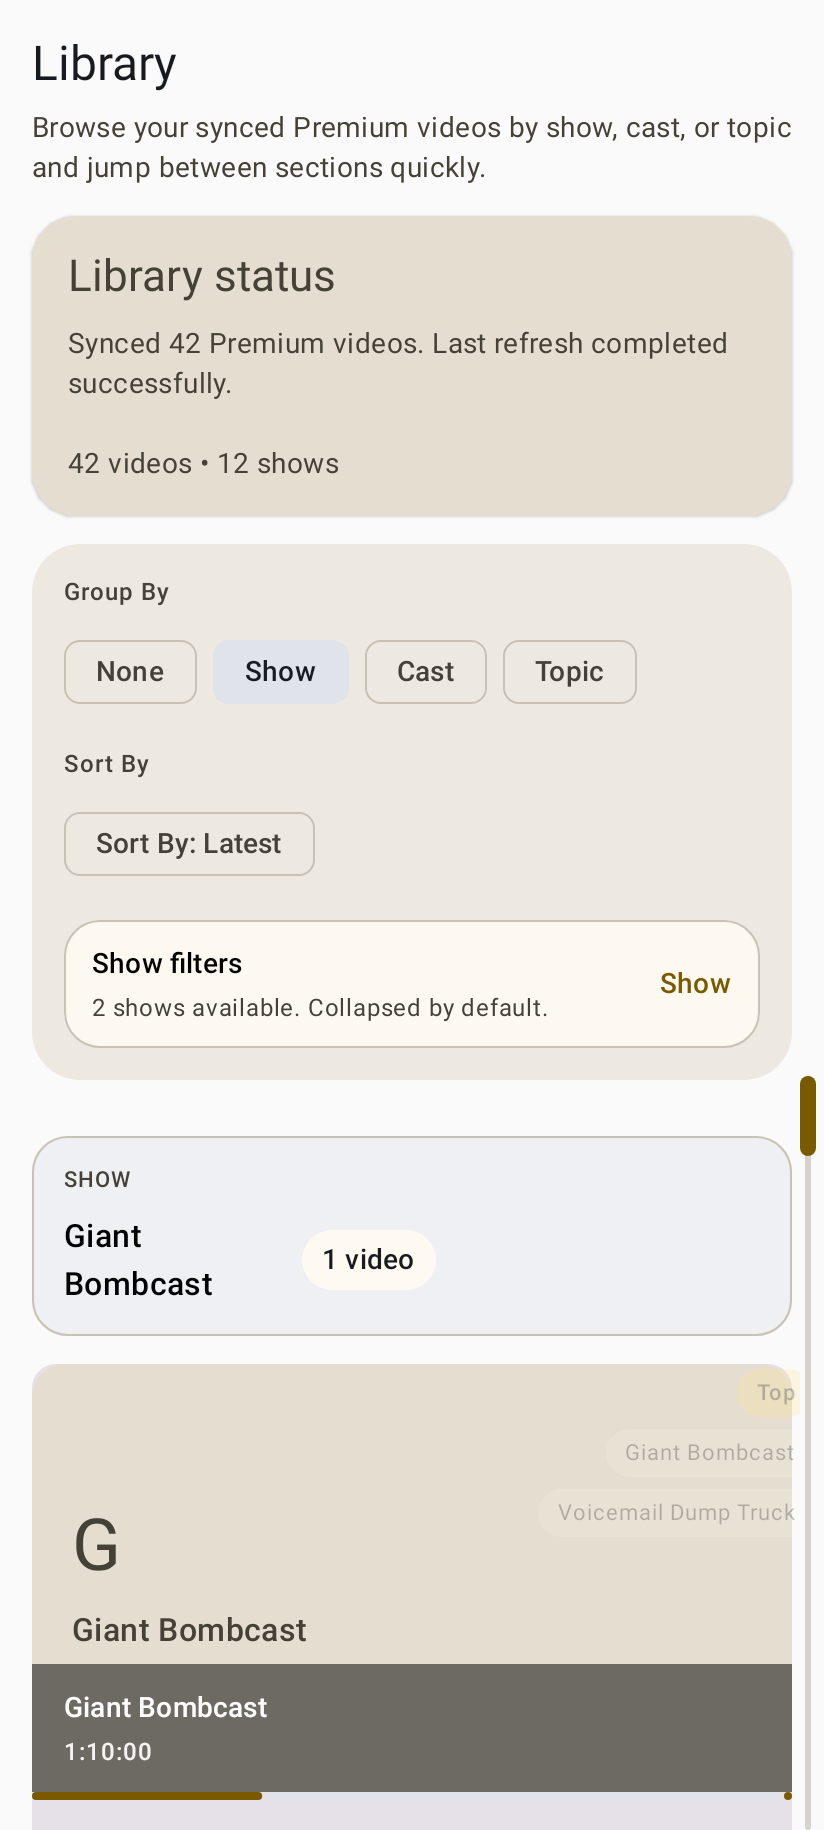
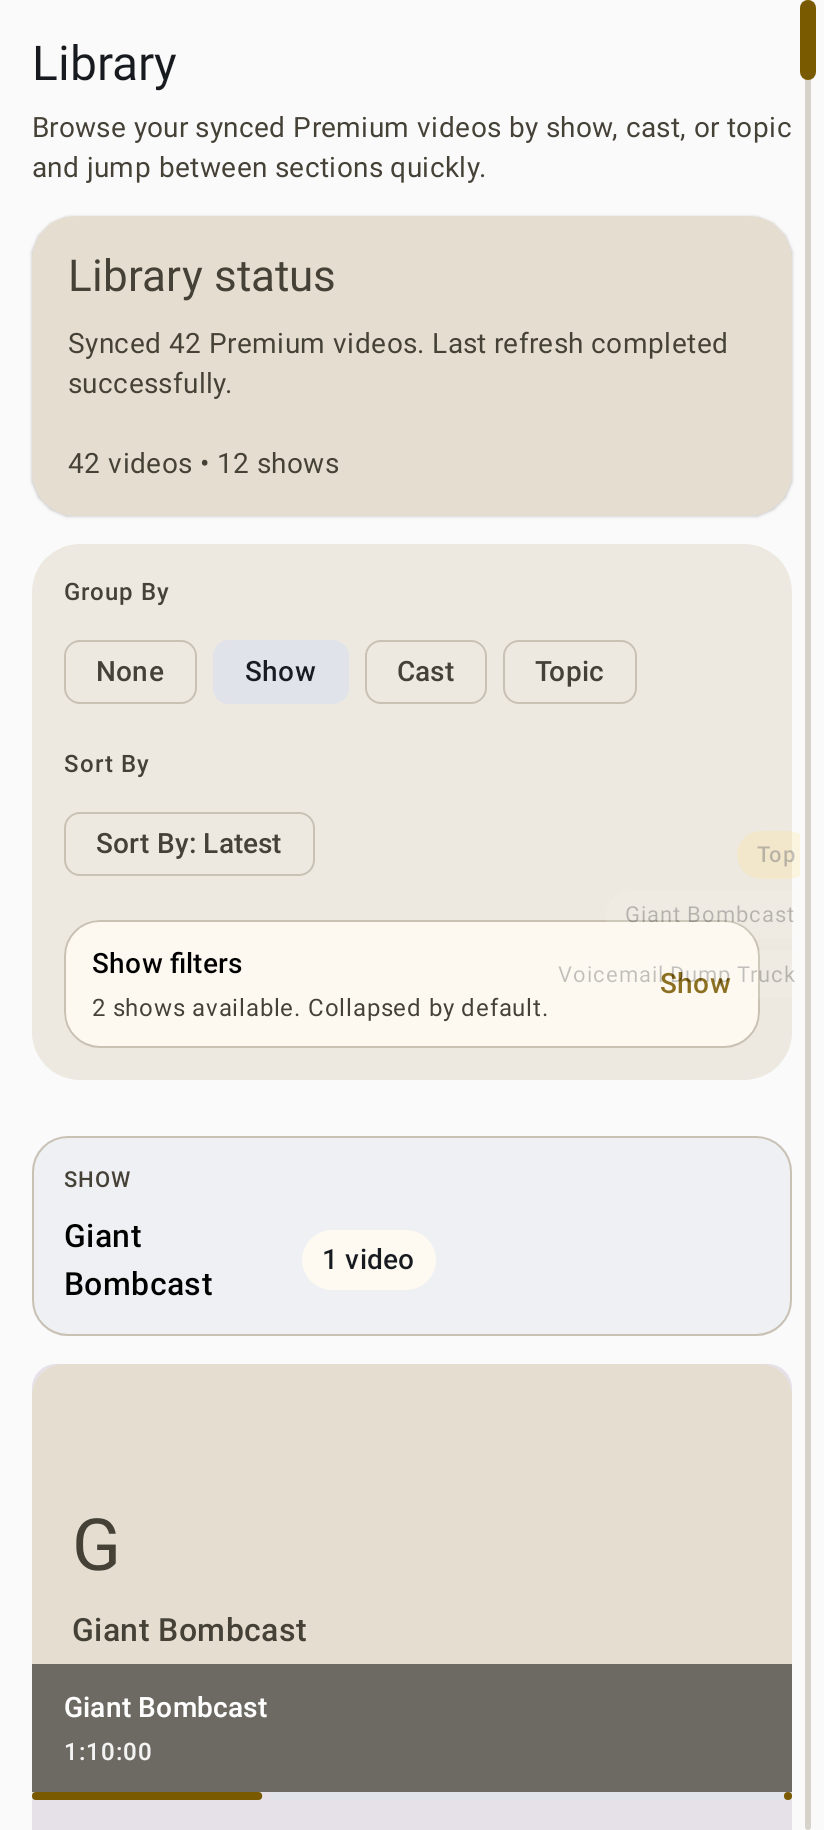
Fix library ordering and jump rail anchoring

Changed region(s): [[0.9405, 0.0, 1.0, 0.6541], [0.7888, 0.5295, 0.8799, 0.5607], [0.9405, 0.7475, 0.9709, 0.7787]]

diff --git a/feature/library/src/main/java/com/looktube/feature/library/LibraryRoute.kt b/feature/library/src/main/java/com/looktube/feature/library/LibraryRoute.kt
@@ -47,6 +47,7 @@ import androidx.compose.runtime.Composable
 import androidx.compose.runtime.LaunchedEffect
 import androidx.compose.runtime.derivedStateOf
 import androidx.compose.runtime.getValue
+import androidx.compose.runtime.mutableIntStateOf
 import androidx.compose.runtime.mutableStateOf
 import androidx.compose.runtime.remember
 import androidx.compose.runtime.rememberCoroutineScope
@@ -58,6 +59,8 @@ import androidx.compose.ui.draw.clip
 import androidx.compose.ui.graphics.Color
 import androidx.compose.ui.graphics.graphicsLayer
 import androidx.compose.ui.input.pointer.pointerInput
+import androidx.compose.ui.layout.boundsInParent
+import androidx.compose.ui.layout.onGloballyPositioned
 import androidx.compose.ui.layout.ContentScale
 import androidx.compose.ui.platform.LocalDensity
 import androidx.compose.ui.text.style.TextAlign
@@ -83,6 +86,7 @@ import com.looktube.model.topicGroupingTitle
 import java.time.Instant
 import java.time.ZoneId
 import java.time.format.DateTimeFormatter
+import kotlin.math.roundToInt
 import kotlinx.coroutines.delay
 import kotlinx.coroutines.launch
 
@@ -201,6 +205,7 @@ fun LibraryRoute(
         sortedVideos.isNotEmpty() -> TOP_ONLY_RAIL_TEXT_CLEARANCE
         else -> TRACK_ONLY_CONTENT_CLEARANCE
     }
+    var videoListAnchorOffsetPx by remember { mutableIntStateOf(Int.MAX_VALUE) }
     val currentJumpTargetIndex by remember(sections, sectionStartIndices, listState) {
         derivedStateOf {
             if (sections.isEmpty()) {
@@ -213,13 +218,13 @@ fun LibraryRoute(
             }
         }
     }
-    val anchorItemOffsetPx by remember(listState) {
+    val railTopOffsetPx by remember(listState, videoListAnchorOffsetPx) {
         derivedStateOf {
-            listState.layoutInfo.visibleItemsInfo
-                .firstOrNull { item -> item.index == VIDEO_LIST_ANCHOR_INDEX }
-                ?.offset
-                ?.coerceAtLeast(0)
-                ?: if (listState.firstVisibleItemIndex >= VIDEO_LIST_START_INDEX) 0 else null
+            if (listState.firstVisibleItemIndex >= VIDEO_LIST_START_INDEX) {
+                0
+            } else {
+                videoListAnchorOffsetPx.coerceAtLeast(0)
+            }
         }
     }
     val railHasScrollableContent by remember(listState, sortedVideos, jumpTargets) {
@@ -238,11 +243,6 @@ fun LibraryRoute(
                     jumpTargets.size > 1 ||
                     listState.firstVisibleItemIndex >= VIDEO_LIST_START_INDEX
                 )
-        }
-    }
-    val railTopOffset = remember(density, anchorItemOffsetPx) {
-        with(density) {
-            (anchorItemOffsetPx ?: 0).toDp()
         }
     }
 
@@ -272,6 +272,11 @@ fun LibraryRoute(
             .fillMaxSize()
             .padding(paddingValues),
     ) {
+        val railTopOffset = if (railTopOffsetPx == Int.MAX_VALUE) {
+            maxHeight
+        } else {
+            with(density) { railTopOffsetPx.toDp() }
+        }
         val railHeight = (maxHeight - railTopOffset + bottomInset).coerceAtLeast(0.dp)
         LazyColumn(
             state = listState,
@@ -313,7 +318,14 @@ fun LibraryRoute(
             }
 
             item(key = "video-list-anchor") {
-                Spacer(modifier = Modifier.fillMaxWidth().height(0.dp))
+                Spacer(
+                    modifier = Modifier
+                        .fillMaxWidth()
+                        .height(0.dp)
+                        .onGloballyPositioned { coordinates ->
+                            videoListAnchorOffsetPx = coordinates.boundsInParent().top.roundToInt()
+                        },
+                )
             }
 
             if (sortedVideos.isEmpty()) {
@@ -612,7 +624,7 @@ private fun BrowseControlSection(
     }
 }
 
-private data class SeriesSection(
+internal data class SeriesSection(
     val title: String,
     val kindLabel: String,
     val videos: List<VideoSummary>,
@@ -641,7 +653,6 @@ internal enum class LibrarySortOption(val label: String) {
 }
 
 private const val ALL_SERIES_FILTER = "All shows"
-private const val VIDEO_LIST_ANCHOR_INDEX = 3
 private const val VIDEO_LIST_START_INDEX = 4
 private const val RAIL_IDLE_FADE_DELAY_MS = 1_400L
 private val JUMP_RAIL_WIDTH = 176.dp
@@ -700,17 +711,26 @@ private fun compareSeriesTitles(left: VideoSummary, right: VideoSummary): Int =
 private fun compareTitles(left: VideoSummary, right: VideoSummary): Int =
     left.title.lowercase().compareTo(right.title.lowercase())
 
-private fun sectionComparator(sortOption: LibrarySortOption): Comparator<SeriesSection> {
-    val anchorComparator = videoComparator(sortOption)
-    return Comparator { left, right ->
-        val anchorComparison = anchorComparator.compare(left.sortAnchor, right.sortAnchor)
-        if (anchorComparison != 0) {
-            anchorComparison
-        } else {
-            left.title.lowercase().compareTo(right.title.lowercase())
+internal fun sectionComparator(sortOption: LibrarySortOption): Comparator<SeriesSection> =
+    Comparator { left, right ->
+        when (sortOption) {
+            LibrarySortOption.Latest -> {
+                comparePublishedAtDescending(left.sortAnchor, right.sortAnchor)
+                    .takeIf { it != 0 }
+                    ?: left.title.lowercase().compareTo(right.title.lowercase())
+            }
+
+            LibrarySortOption.Show -> {
+                left.title.lowercase().compareTo(right.title.lowercase())
+            }
+
+            LibrarySortOption.Oldest -> {
+                comparePublishedAtAscending(left.sortAnchor, right.sortAnchor)
+                    .takeIf { it != 0 }
+                    ?: left.title.lowercase().compareTo(right.title.lowercase())
+            }
         }
     }
-}
 
 private fun buildMetadataLine(
     video: VideoSummary,

diff --git a/feature/library/src/test/java/com/looktube/feature/library/LibrarySortTest.kt b/feature/library/src/test/java/com/looktube/feature/library/LibrarySortTest.kt
@@ -89,6 +89,62 @@ class LibrarySortTest {
         assertEquals(listOf("b", "a", "c"), sortedIds)
     }
 
+    @Test
+    fun latestSectionSortBreaksTimestampTiesBySectionTitleInsteadOfEpisodeTitle() {
+        val zetaSection = section(
+            title = "Zeta Show",
+            sortAnchor = video(
+                id = "zeta-newest",
+                title = "Alpha Episode",
+                seriesTitle = "Zeta Show",
+                publishedAtEpochMillis = 2_000L,
+            ),
+        )
+        val alphaSection = section(
+            title = "Alpha Show",
+            sortAnchor = video(
+                id = "alpha-newest",
+                title = "Zulu Episode",
+                seriesTitle = "Alpha Show",
+                publishedAtEpochMillis = 2_000L,
+            ),
+        )
+
+        val sortedTitles = listOf(zetaSection, alphaSection)
+            .sortedWith(sectionComparator(LibrarySortOption.Latest))
+            .map(SeriesSection::title)
+
+        assertEquals(listOf("Alpha Show", "Zeta Show"), sortedTitles)
+    }
+
+    @Test
+    fun oldestSectionSortBreaksTimestampTiesBySectionTitleInsteadOfEpisodeTitle() {
+        val zetaSection = section(
+            title = "Zeta Show",
+            sortAnchor = video(
+                id = "zeta-oldest",
+                title = "Alpha Episode",
+                seriesTitle = "Zeta Show",
+                publishedAtEpochMillis = 1_000L,
+            ),
+        )
+        val alphaSection = section(
+            title = "Alpha Show",
+            sortAnchor = video(
+                id = "alpha-oldest",
+                title = "Zulu Episode",
+                seriesTitle = "Alpha Show",
+                publishedAtEpochMillis = 1_000L,
+            ),
+        )
+
+        val sortedTitles = listOf(zetaSection, alphaSection)
+            .sortedWith(sectionComparator(LibrarySortOption.Oldest))
+            .map(SeriesSection::title)
+
+        assertEquals(listOf("Alpha Show", "Zeta Show"), sortedTitles)
+    }
+
     private fun video(
         id: String,
         title: String,
@@ -103,5 +159,15 @@ class LibrarySortTest {
         playbackUrl = null,
         seriesTitle = seriesTitle,
         publishedAtEpochMillis = publishedAtEpochMillis,
+    )
+
+    private fun section(
+        title: String,
+        sortAnchor: VideoSummary,
+    ) = SeriesSection(
+        title = title,
+        kindLabel = "Show",
+        videos = listOf(sortAnchor),
+        sortAnchor = sortAnchor,
     )
 }
